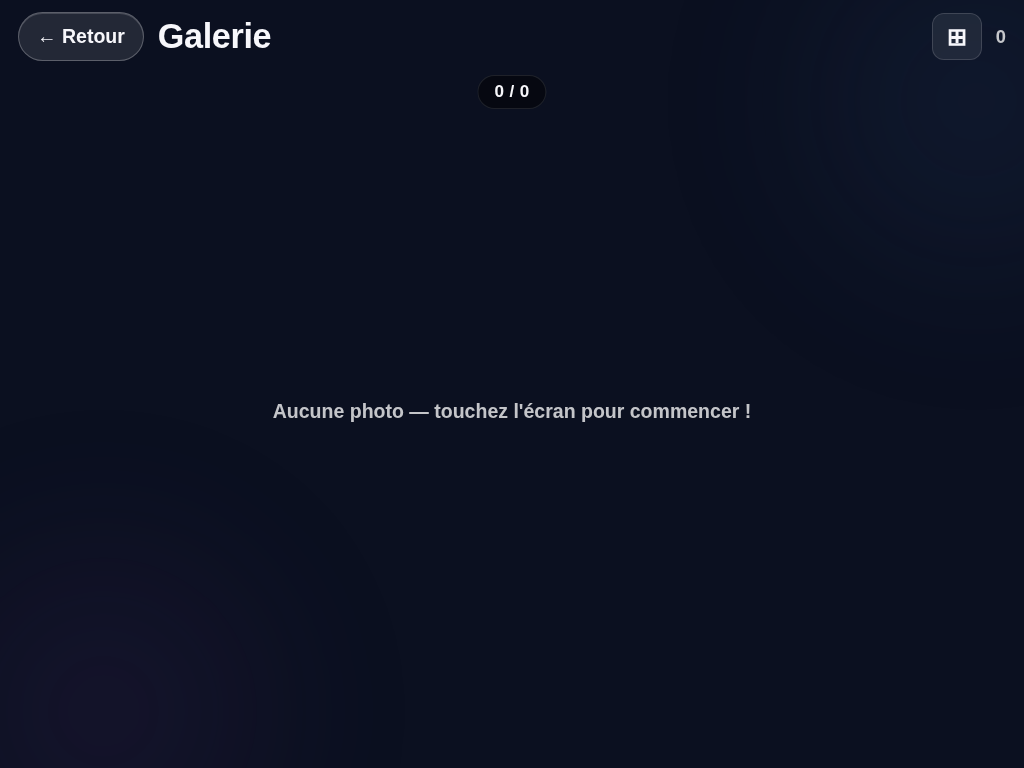
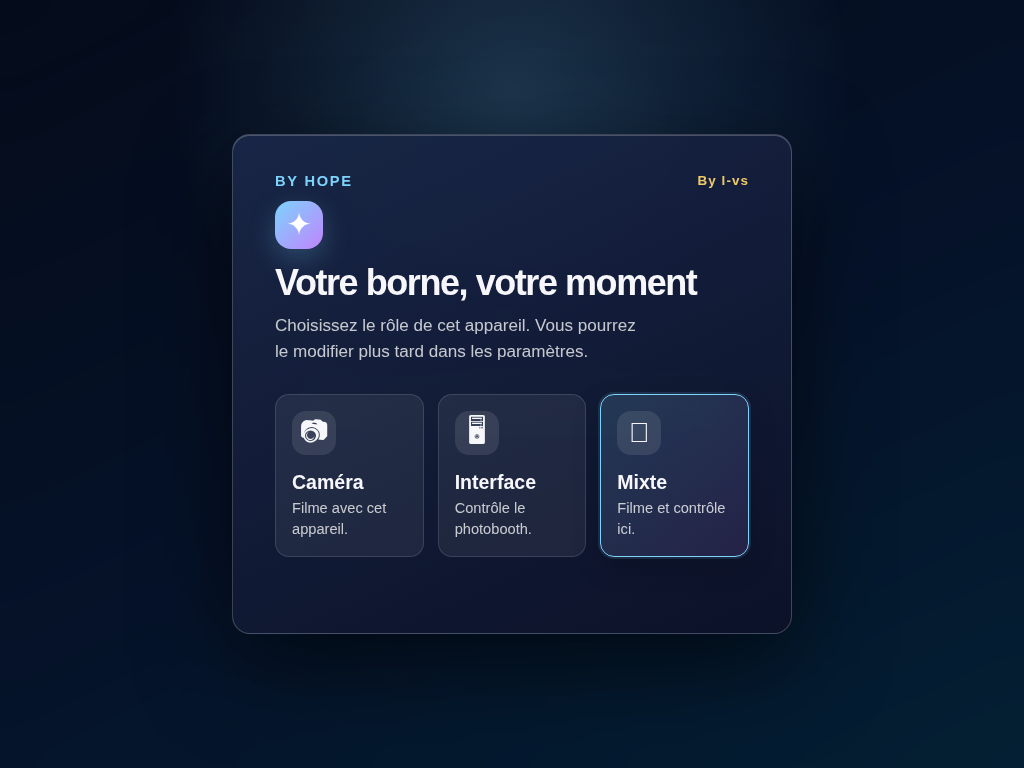
fix(phase3): BUG-1.1/1.2/1.3/1.4 — remote camera fixes
- BUG-1.1: remote preview canvas object-fit:cover crop
- BUG-1.2: bump JPEG quality 0.62→0.78, width 640→800px
- BUG-1.3: clipboard auto-paste for token, clearer status text
- BUG-1.4: pair-request popup auto-dismiss 30s timeout
- BUG-1.5: server multer limit 1.5MB→2MB
- Files: public/js/app.js, server/server.js

diff --git a/public/js/app.js b/public/js/app.js
@@ -4765,7 +4765,14 @@ function updateRoleGateSelection(role) {
   const needsToken = role === "interface";
   remoteFields?.classList.toggle("hidden", !needsToken);
   if (tokenInput && !tokenInput.value) tokenInput.value = remoteTokenFromUrl() || (state.remoteCamMode === "controller" ? state.remoteCamToken : "");
-  if (status) status.textContent = needsToken ? "Recherche d'une caméra…" : "";
+  // BUG-1.3 — Auto-presse-papier pour pré-remplir le token caméra.
+  if (needsToken && tokenInput && !tokenInput.value) {
+    navigator.clipboard?.readText?.().then((text) => {
+      if (tokenInput && !tokenInput.value && /^[A-Z0-9]{6,}$/i.test(text)) tokenInput.value = text;
+    }).catch(() => {});
+    tokenInput.setAttribute("placeholder", "Code caméra ou coller ici");
+  }
+  if (status) status.textContent = needsToken ? "Touchez une caméra ci-dessous ou entrez le code" : "";
   // Sélection d'appareil : dès que le rôle Interface est actif dans le gate,
   // on découvre les caméras pour un appui direct (le code reste en secours).
   if (needsToken && $("role-gate")?.classList.contains("open")) {
@@ -5549,14 +5556,13 @@ function startRemotePublishing() {
     }
     _remotePubBusy = true;
     try {
-      // Flux distant : 640 px à ~1,8 i/s (cadence doublée pour réduire la
-      // latence perçue). La compression JPEG est la plus coûteuse ; on la garde
-      // petite et on évite de saturer le thread principal de la Caméra.
-      const W = Math.min(camera.videoWidth, 640);
+      // Flux distant : 800 px large, qualité 0.78 pour un rendu net.
+      // Le canvas garde le ratio d'aspect natif de la caméra.
+      const W = Math.min(camera.videoWidth, 800);
       const H = Math.max(1, Math.round(W / (camera.videoWidth / camera.videoHeight)));
       if (canvas.width !== W || canvas.height !== H) { canvas.width = W; canvas.height = H; }
       canvas.getContext("2d").drawImage(camera, 0, 0, W, H);
-      const blob = await canvasToJpegBlob(canvas, 0.62, "remote-live");
+      const blob = await canvasToJpegBlob(canvas, 0.78, "remote-live");
       if (!blob || generation !== _remotePubGeneration) return;
       const frameId = telemetry.recordFrame("remote-live", { width: W, height: H, sizeBytes: blob.size });
       const form = new FormData();
@@ -5959,8 +5965,15 @@ function showPairRequestPopup(request) {
   acceptButton?.focus();
   el.querySelector('[data-pr="accept"]')?.addEventListener("click", () => { void respondOnce(true); });
   el.querySelector('[data-pr="refuse"]')?.addEventListener("click", () => { void respondOnce(false); });
+  // BUG-1.4 — Auto-dismiss après 30s pour éviter le loop de popup.
+  // La popup ne réapparaît pas car _pairRequestShown garde l'ID.
+  _pairRequestAutoDismissTimer = setTimeout(() => {
+    if (_pairRequestEl === el) { void respondOnce(false); }
+  }, 30000);
 }
+let _pairRequestAutoDismissTimer = null;
 function hidePairRequestPopup() {
+  if (_pairRequestAutoDismissTimer) { clearTimeout(_pairRequestAutoDismissTimer); _pairRequestAutoDismissTimer = null; }
   if (_pairRequestEl) { _pairRequestEl.remove(); _pairRequestEl = null; }
   const previous = _pairRequestPreviousFocus;
   _pairRequestPreviousFocus = null;
@@ -6226,13 +6239,35 @@ function startRemotePolling() {
         _remotePreviewCanvas.width = frame.width;
         _remotePreviewCanvas.height = frame.height;
       }
-      try {
-        const ctx = _remotePreviewCanvas.getContext("2d");
-        ctx.drawImage(frame.source, 0, 0);
-        state.remoteCamW = _remotePreviewCanvas.width;
-        state.remoteCamH = _remotePreviewCanvas.height;
-      } finally {
-        frame.close();
+      // Calque l'image en object-fit:cover pour éviter l'étirement.
+      // Le canvas backing store reste à la taille native de la frame,
+      // le CSS width/height=100% étire → on contre avec le crop.
+      const canvasEl = _remotePreviewCanvas;
+      const cw = canvasEl.offsetWidth, ch = canvasEl.offsetHeight;
+      if (cw && ch && (frame.width !== cw || frame.height !== ch)) {
+        const frameRatio = frame.width / frame.height;
+        const canvasRatio = cw / ch;
+        let sx = 0, sy = 0, sw = frame.width, sh = frame.height;
+        if (frameRatio > canvasRatio) {
+          sw = frame.height * canvasRatio;
+          sx = (frame.width - sw) / 2;
+        } else {
+          sh = frame.width / canvasRatio;
+          sy = (frame.height - sh) / 2;
+        }
+        try {
+          const ctx = canvasEl.getContext("2d");
+          ctx.drawImage(frame.source, sx, sy, sw, sh, 0, 0, cw, ch);
+        } finally {
+          frame.close();
+        }
+      } else {
+        try {
+          const ctx = canvasEl.getContext("2d");
+          ctx.drawImage(frame.source, 0, 0);
+        } finally {
+          frame.close();
+        }
       }
       feedCustomizerRemotePreview();
       state.remoteCamW = _remotePreviewCanvas.width;
